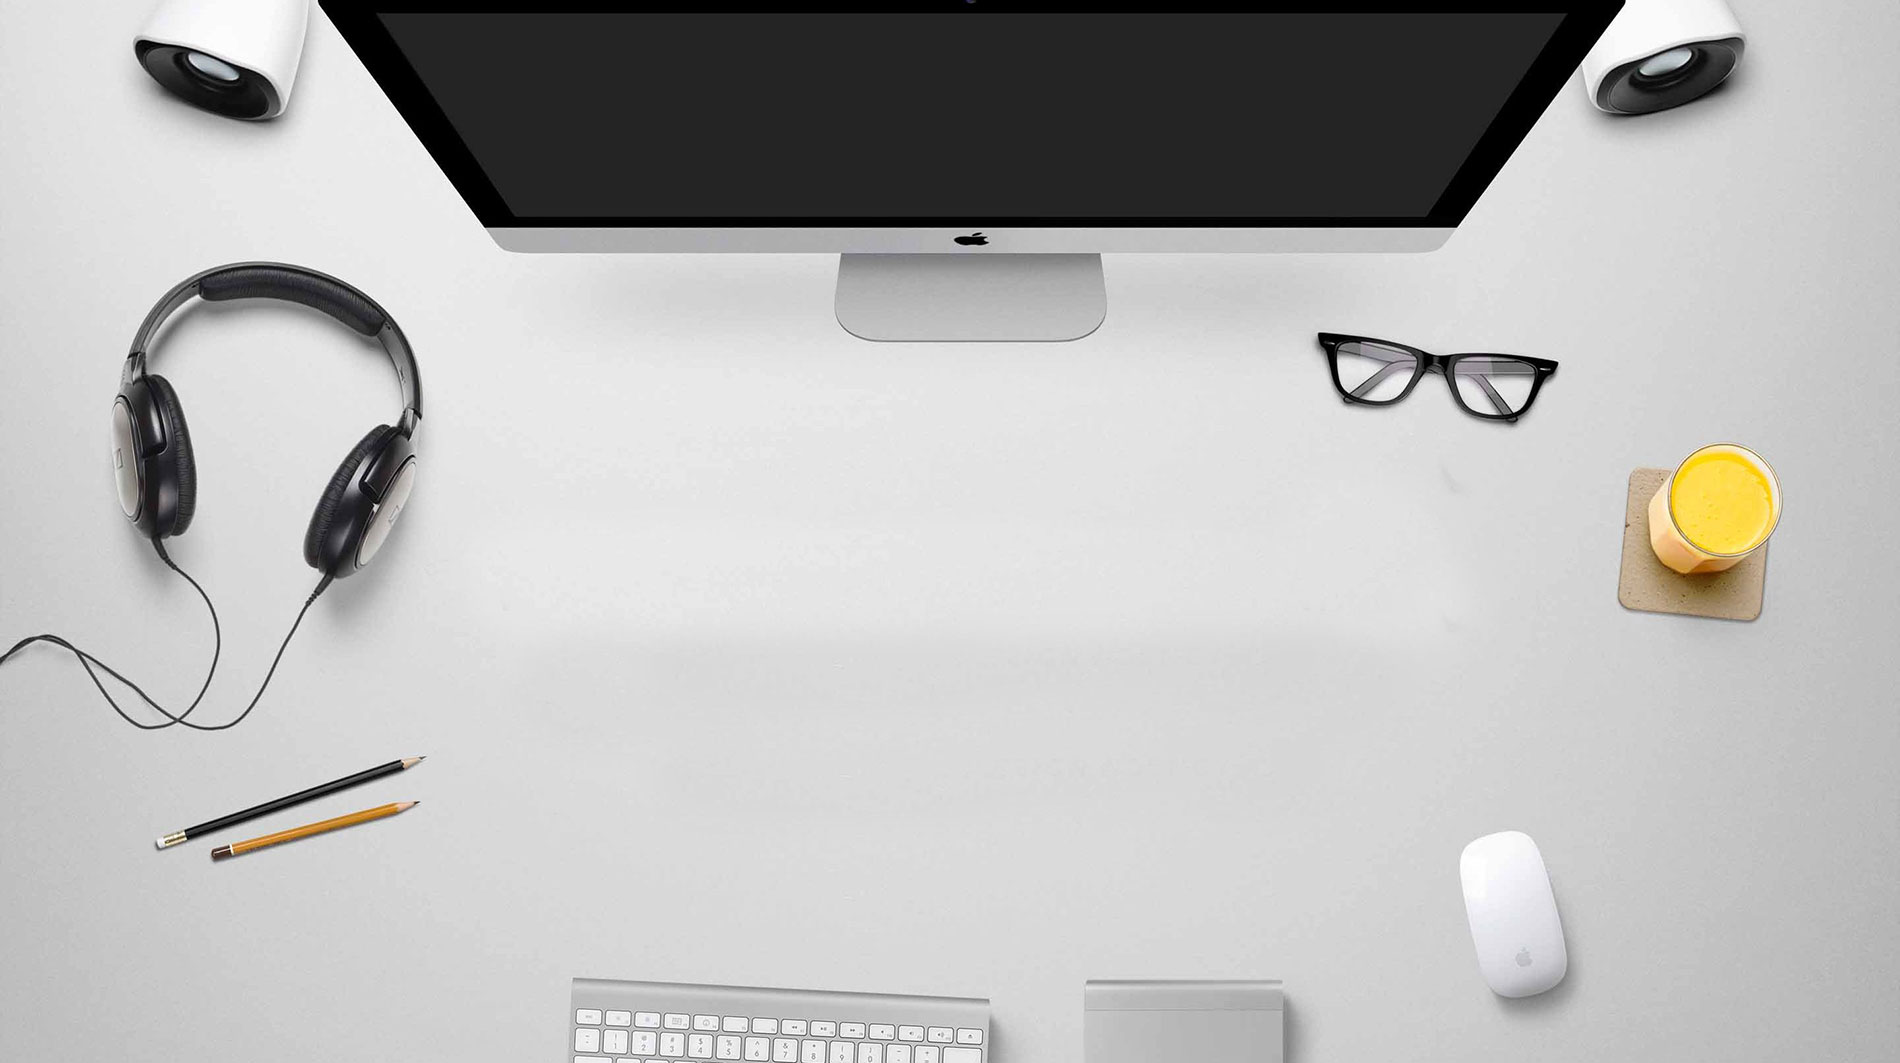
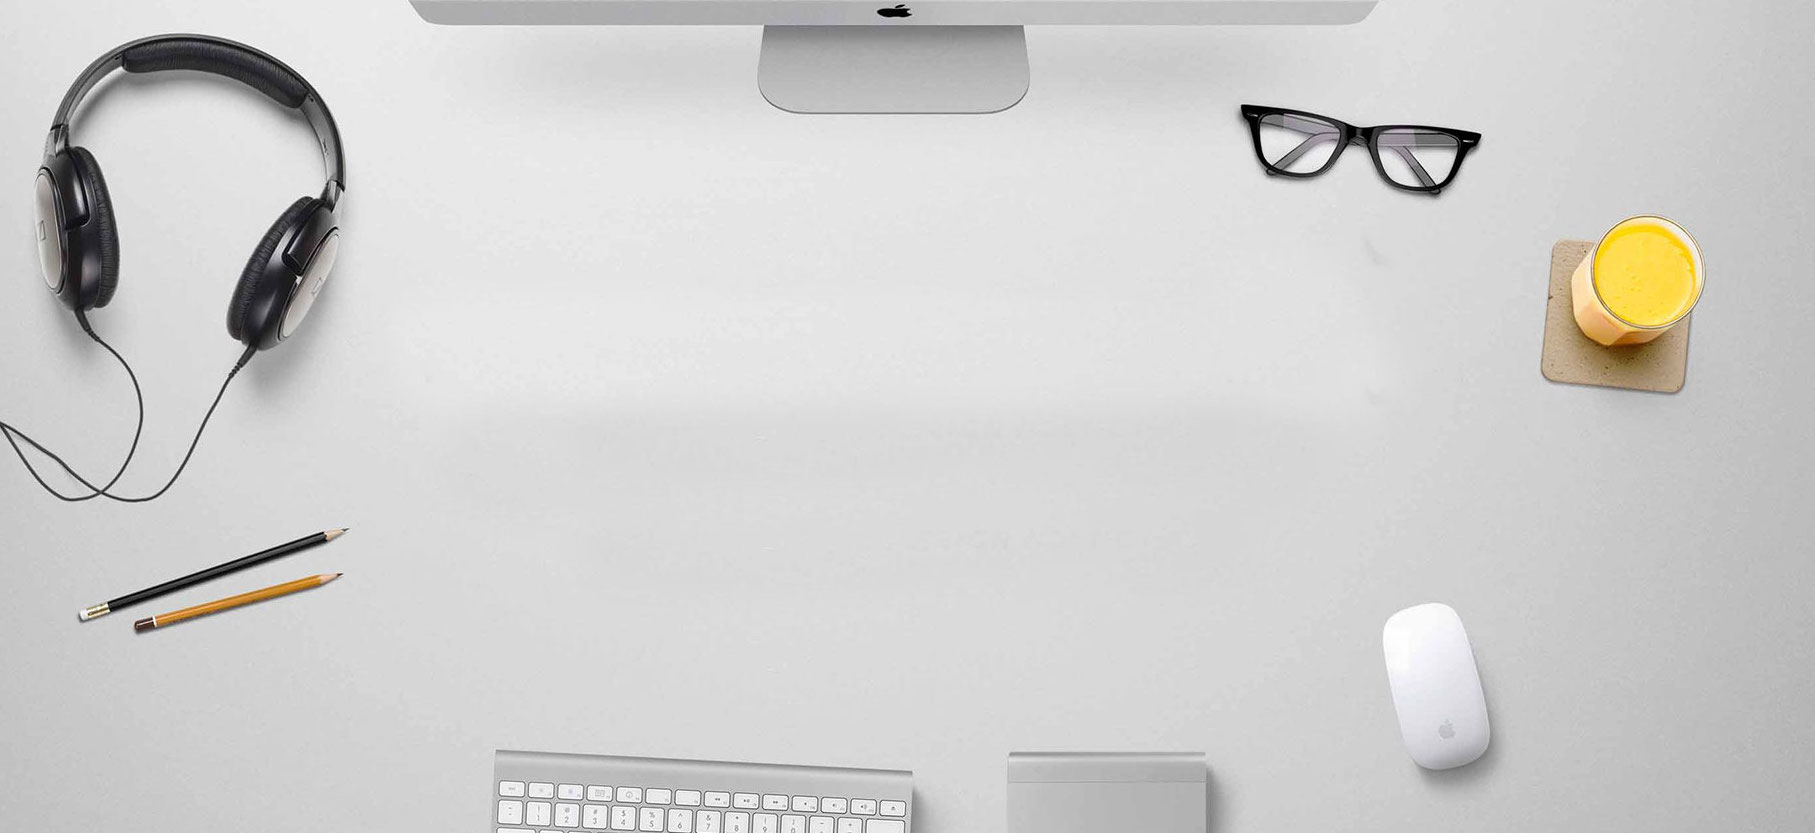
bg up

diff --git a/french.html b/french.html
@@ -87,13 +87,13 @@
       
         <div class="firstpart">
          
-         <br><br><br><br><br><br><br><br>
+         <br><br><br><br><br><br><br><br> <br><br> <br><br> <br> <br>
          <div class="gros">
-            <div class="premier" >
+           <!-- <div class="premier" >
        
                 J'ai Toujours Essayé De Faire La Différence 
           
-           </div>
+           </div>-->
          </div>
          <br><br><br><br><br><br><br>
           

diff --git a/assets/css/style.css b/assets/css/style.css
@@ -10,8 +10,8 @@
 }
 
 .firstpart{ 
-    /*background-image:url('../img/ji.jpg');
-    opacity:0.9;
+    background-image:url('../img/bbg3.jpg');
+ 
   background-repeat: no-repeat;
   background-size: 1500px 500px ;*/
   background-color:#333;
